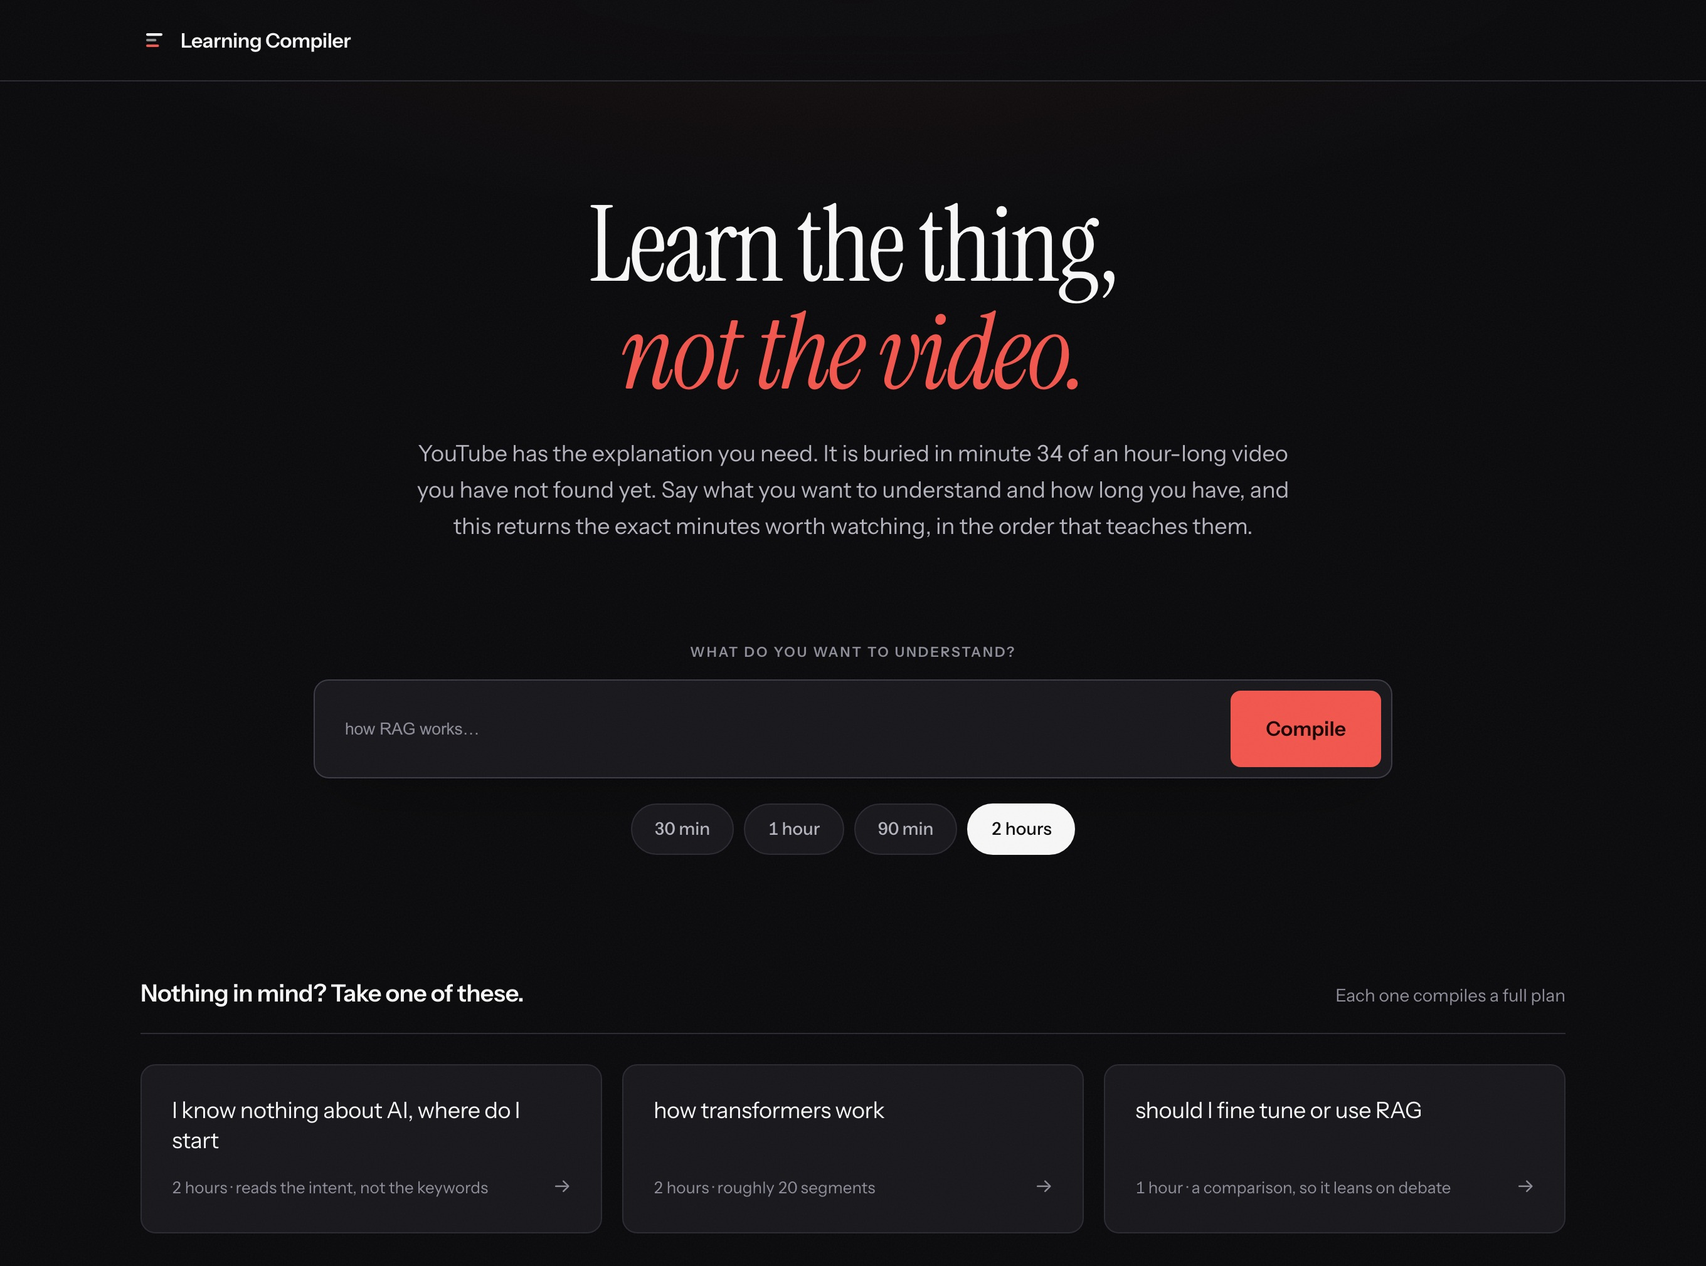
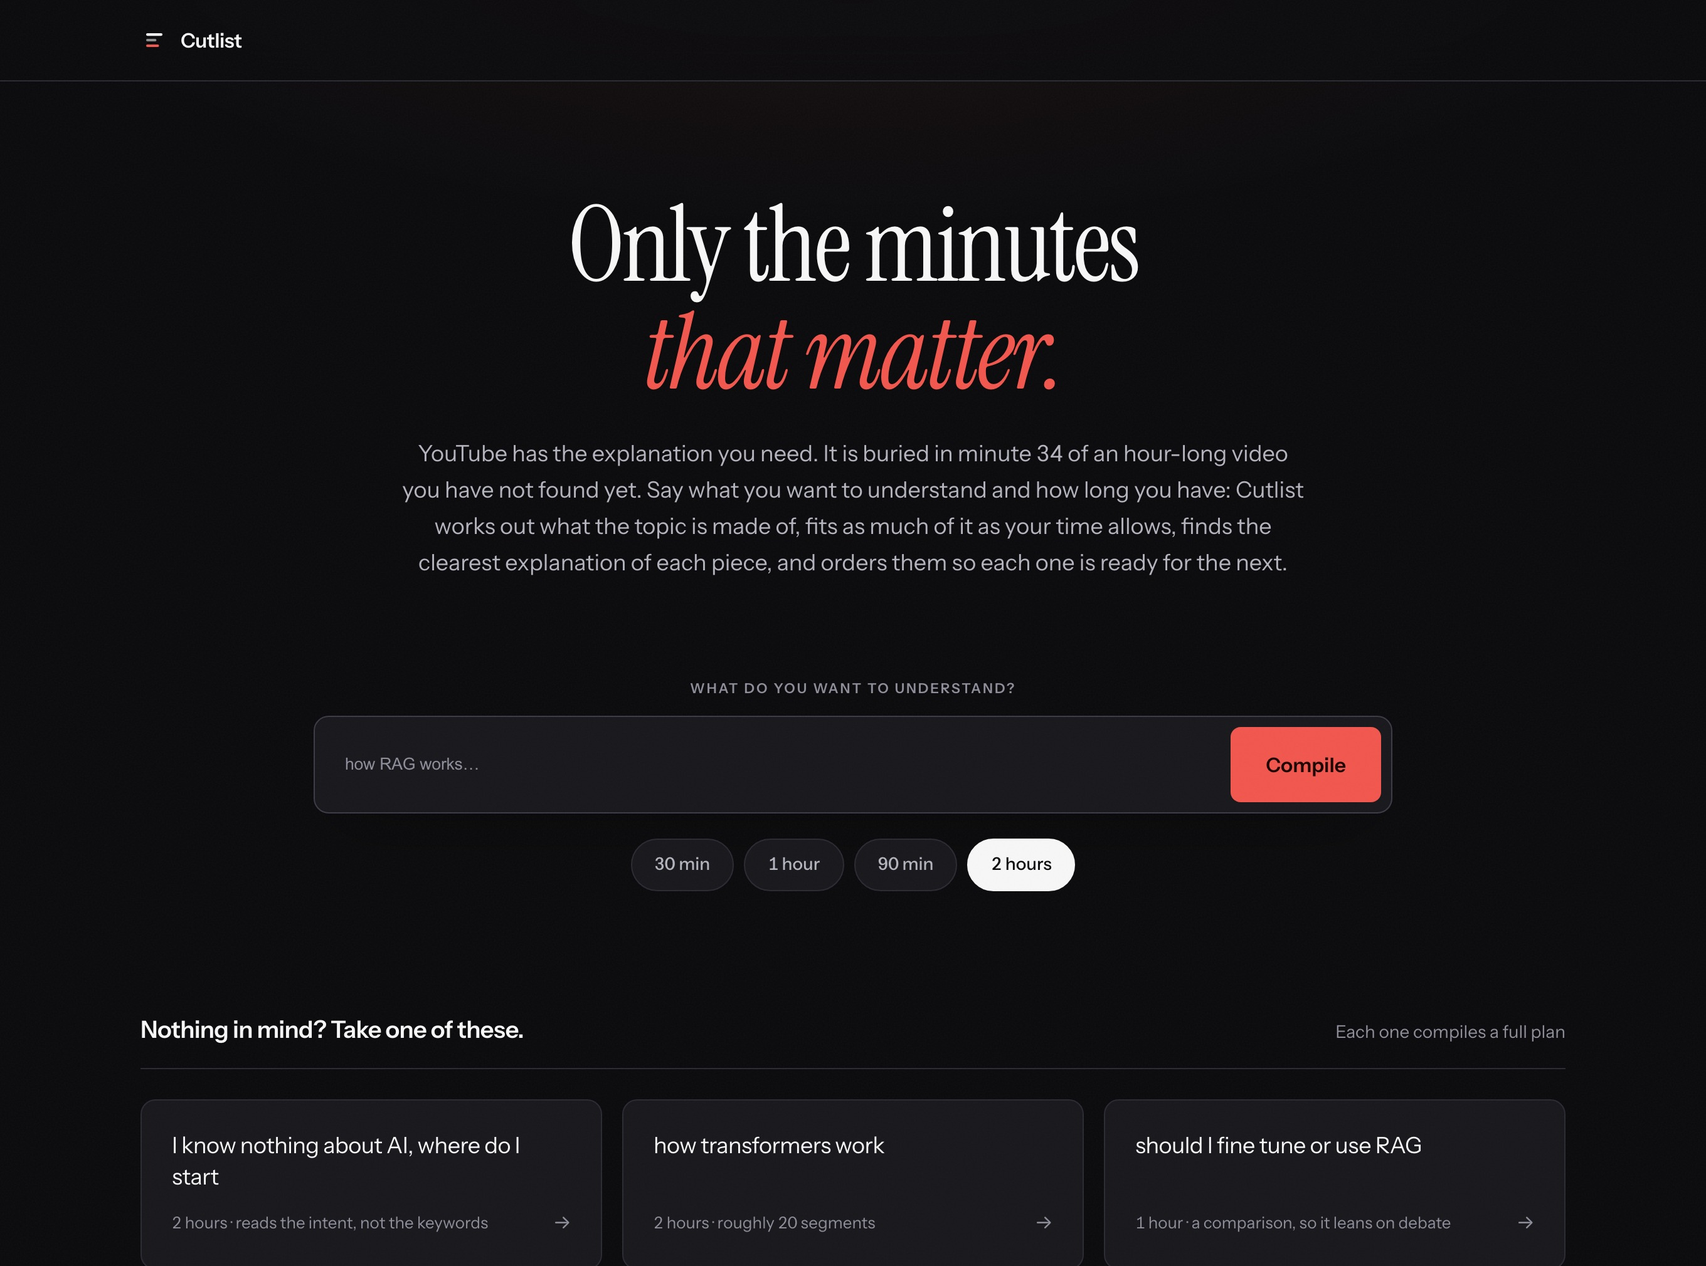
Rename to Cutlist, and lead with what the product actually does
The old name described the mechanism and the old copy undersold the work.
"Learning Compiler" put the most generic word in the category next to a
builder's metaphor, and every explanation on the page stopped at "we pick
good segments," which is a retrieval story.

The real one is that a topic is decomposed into the ideas it depends on,
those are fitted to the time available, each is sourced, and the result is
sequenced. Retrieval is just how the skeleton gets filled in. That claim is
something the pipeline already did at stage one and the page never said.

So the explainer now shows it. After the question is typed, the topic comes
apart into concept chips, one of them struck through because nothing good
enough is indexed for it, and only then do the plan rows resolve underneath.
Anyone watching for four seconds sees the breakdown happen before a single
video is chosen, which is the order that makes this a plan rather than a
search result. A fourth step beside it says the same thing in words.

On the result page, "Things to cover" becomes "What this topic is made of",
and reads as the plan's skeleton rather than a coverage checklist.

Tagline is "Only the minutes that matter", which survives being set at 60px
and being read cold in a repo listing, and says what the product returns
rather than what it saves you.

Live at cutlist-learn.vercel.app. OG card and both README screenshots
regenerated, since all three carried the old wordmark.

diff --git a/public/index.html b/public/index.html
@@ -3,25 +3,25 @@
 <head>
 <meta charset="utf-8">
 <meta name="viewport" content="width=device-width, initial-scale=1">
-<title>Learning Compiler</title>
-<meta name="description" content="Say what you want to understand and how long you have. Get back the YouTube segments worth watching, in the order that teaches best, with exact timestamps.">
+<title>Cutlist</title>
+<meta name="description" content="Only the minutes that matter. Cutlist breaks a topic into what it is made of, fits it to the time you have, and sequences it into a timestamped YouTube plan.">
 <meta name="color-scheme" content="dark light">
 <meta name="theme-color" content="#0a0a0c">
 <link rel="icon" href="/favicon.svg" type="image/svg+xml">
 <link rel="apple-touch-icon" href="/favicon.svg">
 
 <meta property="og:type" content="website">
-<meta property="og:site_name" content="Learning Compiler">
-<meta property="og:title" content="Learning Compiler">
-<meta property="og:description" content="Say what you want to understand and how long you have. Get back the YouTube segments worth watching, in the order that teaches best, with exact timestamps.">
-<meta property="og:url" content="https://learning-compiler.vercel.app">
-<meta property="og:image" content="https://learning-compiler.vercel.app/og.png">
+<meta property="og:site_name" content="Cutlist">
+<meta property="og:title" content="Cutlist">
+<meta property="og:description" content="Only the minutes that matter. Cutlist breaks a topic into what it is made of, fits it to the time you have, and sequences it into a timestamped YouTube plan.">
+<meta property="og:url" content="https://cutlist-learn.vercel.app">
+<meta property="og:image" content="https://cutlist-learn.vercel.app/og.png">
 <meta property="og:image:width" content="1200">
 <meta property="og:image:height" content="630">
 <meta name="twitter:card" content="summary_large_image">
-<meta name="twitter:title" content="Learning Compiler">
-<meta name="twitter:description" content="Tell it what you want to understand and how long you have. It returns the segments worth watching, in teaching order.">
-<meta name="twitter:image" content="https://learning-compiler.vercel.app/og.png">
+<meta name="twitter:title" content="Cutlist">
+<meta name="twitter:description" content="Only the minutes that matter. A topic and a deadline in, an ordered timestamped watch plan out.">
+<meta name="twitter:image" content="https://cutlist-learn.vercel.app/og.png">
 
 <link rel="preconnect" href="https://fonts.googleapis.com">
 <link rel="preconnect" href="https://fonts.gstatic.com" crossorigin>
@@ -285,6 +285,17 @@ body.is-done .explain{display:none}
 }
 .st-chips span.picked{background:var(--ink); border-color:var(--ink); color:var(--canvas)}
 
+.st-break{margin-top:calc(var(--u)*2.5); padding-top:calc(var(--u)*2); border-top:1px solid var(--line)}
+.st-breakhead{font-size:11px; font-weight:600; letter-spacing:.13em; text-transform:uppercase; color:var(--ink-3)}
+.st-concepts{margin:calc(var(--u)*1.5) 0 0; padding:0; list-style:none; display:flex; flex-wrap:wrap; gap:calc(var(--u))}
+.st-concepts li{
+  font-size:12.5px; padding:5px 11px; border:1px solid var(--line); border-radius:999px;
+  color:var(--ink-2); background:var(--raise); opacity:0; transform:translateY(6px);
+}
+.stage-broke .st-concepts li{animation:rise .45s var(--ease) forwards; animation-delay:calc(var(--i)*120ms)}
+.stage-settled .st-concepts li{opacity:1; transform:none; animation:none}
+.st-concepts li.no{border-style:dashed; color:var(--ink-3); text-decoration:line-through; text-decoration-color:var(--accent)}
+
 .st-out{margin-top:calc(var(--u)*3); padding-top:calc(var(--u)*2.5); border-top:1px solid var(--line)}
 .st-outhead{
   display:flex; align-items:baseline; justify-content:space-between; gap:calc(var(--u)*2);
@@ -300,7 +311,7 @@ body.is-done .explain{display:none}
 .st-rows li.more{
   grid-template-columns:1fr; font-size:12.5px; color:var(--ink-3); padding-top:calc(var(--u)*.5);
 }
-.stage-go .st-rows li{animation:rise .55s var(--ease) forwards; animation-delay:calc(var(--i)*130ms + 1900ms)}
+.stage-go .st-rows li{animation:rise .55s var(--ease) forwards; animation-delay:calc(var(--i)*130ms + 700ms)}
 /* Pausing part-way through must not leave the rows mid-animation at zero
    opacity, so the settled state is painted directly rather than waited for. */
 .stage-settled .st-rows li{opacity:1; transform:none; animation:none}
@@ -323,7 +334,8 @@ body.is-done .explain{display:none}
 
 @media (prefers-reduced-motion:reduce){
   .st-caret{animation:none}
-  .stage-go .st-rows li, .st-rows li{opacity:1; transform:none; animation:none}
+  .stage-go .st-rows li, .st-rows li,
+  .stage-broke .st-concepts li, .st-concepts li{opacity:1; transform:none; animation:none}
   .ex-steps li{opacity:1}
 }
 
@@ -699,7 +711,7 @@ body.is-demo .demo{display:block}
         <rect x="6.5" y="14.5" width="12" height="3" rx="1.5" fill="#F7F7F8" opacity=".55"/>
         <rect x="6.5" y="21" width="15" height="3" rx="1.5" fill="#F2564D"/>
       </svg>
-      <b translate="no">Learning Compiler</b>
+      <b translate="no">Cutlist</b>
     </a>
     <button class="back" id="back" type="button">
       <svg viewBox="0 0 16 16" aria-hidden="true"><path d="M9.5 3.5 5 8l4.5 4.5" fill="none" stroke="currentColor" stroke-width="1.6" stroke-linecap="round" stroke-linejoin="round"/></svg>
@@ -711,12 +723,13 @@ body.is-demo .demo{display:block}
 <div class="shell">
 
   <section class="hero">
-    <h1 id="headline">Learn the thing, <em>not the video.</em></h1>
+    <h1 id="headline">Only the minutes <em>that matter.</em></h1>
     <p class="lede">
       YouTube has the explanation you need. It is buried in minute 34 of an
       hour-long video you have not found yet. Say what you want to understand
-      and how long you have, and this returns the exact minutes worth watching,
-      in the order that teaches them.
+      and how long you have: Cutlist works out what the topic is made of, fits
+      as much of it as your time allows, finds the clearest explanation of each
+      piece, and orders them so each one is ready for the next.
     </p>
   </section>
 
@@ -777,11 +790,13 @@ body.is-demo .demo{display:block}
       <div class="ex-head">
         <h2 class="serif">You bring a question<br>and a deadline.</h2>
         <p>
-          A search box gives you ten hour-long videos and wishes you luck. The
-          unit of YouTube is the video; the unit of learning is the idea, and
-          they do not line up. So you pay a search-and-skip tax on every video,
-          and pay it again on the next one. Two free hours can lose thirty
-          minutes before you learn anything.
+          A search box gives you ten hour-long videos and wishes you luck. But
+          the harder problem comes first: knowing what the topic is even made
+          of, and how much of it you can realistically learn before the time
+          runs out. Cutlist answers that first and then fills it in. The unit of
+          YouTube is the video, the unit of learning is the idea, and they do
+          not line up, so you pay a search-and-skip tax on every video and pay
+          it again on the next one.
         </p>
       </div>
 
@@ -799,6 +814,11 @@ body.is-demo .demo{display:block}
           </li>
           <li data-step="3">
             <b>03</b>
+            <h3>The topic comes apart</h3>
+            <p>Cutlist works out the ideas the topic is actually made of, then how many of them fit the time you gave it. You see that skeleton before you see a single video.</p>
+          </li>
+          <li data-step="4">
+            <b>04</b>
             <h3>Get a plan, not a results page</h3>
             <p>Every entry opens the creator's own video at the second it starts being useful. Nothing repeats, and nothing is filler.</p>
           </li>
@@ -817,6 +837,17 @@ body.is-demo .demo{display:block}
             <div class="st-chips">
               <span>30 min</span><span>1 hour</span><span>90 min</span><span data-pick>2 hours</span>
             </div>
+          </div>
+
+          <div class="st-break" aria-hidden="true">
+            <span class="st-breakhead">What this topic is made of</span>
+            <ol class="st-concepts">
+              <li style="--i:0">The limits of a standalone LLM</li>
+              <li style="--i:1">What an embedding is</li>
+              <li style="--i:2">Vector search and retrieval</li>
+              <li style="--i:3">Chunking and context</li>
+              <li class="no" style="--i:4">Reranking</li>
+            </ol>
           </div>
 
           <div class="st-out" aria-hidden="true">
@@ -921,7 +952,7 @@ body.is-demo .demo{display:block}
         <span class="lbl">What this does with your data</span>
         <p>No accounts, no cookies, no analytics. Your question is compiled on the server and held in memory so asking it again costs nothing; that cache dies with the server process. Your time budget is kept in your own browser. <strong>Shared links carry the whole plan inside the link</strong>, so sharing one stores nothing anywhere.</p>
         <p>Video thumbnails are loaded from YouTube's own servers, which means YouTube can see that your browser requested them. That is the one third party this page talks to.</p>
-        <p>A personal project on a capped API key, not a service. <a href="https://github.com/bisati/learning-compiler">Source, decisions and costs on GitHub</a>.</p>
+        <p>A personal project on a capped API key, not a service. <a href="https://github.com/bisati/cutlist">Source, decisions and costs on GitHub</a>.</p>
       </div>
     </div>
   </div>
@@ -1052,7 +1083,7 @@ const clearStages = () => { for (const r of $('#stages').children) r.classList.r
   const settle = () => {
     type.textContent = QUESTION;
     pick.classList.add('picked');
-    stage.classList.add('stage-go', 'stage-settled');
+    stage.classList.add('stage-broke', 'stage-go', 'stage-settled');
     $('#stmin').textContent = '119'; $('#stseg').textContent = '26'; $('#stcre').textContent = '25';
     steps.forEach((s) => s.classList.add('on'));
   };
@@ -1061,7 +1092,7 @@ const clearStages = () => { for (const r of $('#stages').children) r.classList.r
     clear();
     type.textContent = '';
     pick.classList.remove('picked');
-    stage.classList.remove('stage-go', 'stage-settled');
+    stage.classList.remove('stage-broke', 'stage-go', 'stage-settled');
     $('#stmin').textContent = '0'; $('#stseg').textContent = '0'; $('#stcre').textContent = '0';
     steps.forEach((s) => s.classList.remove('on'));
   };
@@ -1078,13 +1109,15 @@ const clearStages = () => { for (const r of $('#stages').children) r.classList.r
       type.textContent = QUESTION.slice(0, ++i);
       if (i < QUESTION.length) return after(55, typeOn);
       after(380, () => { lite(1); pick.classList.add('picked'); });
-      after(1500, () => {
-        lite(2);
+      // The topic comes apart before anything is chosen. That order is the product.
+      after(1100, () => { lite(2); stage.classList.add('stage-broke'); });
+      after(2300, () => {
+        lite(3);
         stage.classList.add('stage-go');
         countUp($('#stmin'), 119); countUp($('#stseg'), 26); countUp($('#stcre'), 25);
       });
-      after(3600, () => steps.forEach((s) => s.classList.add('on')));
-      after(3600 + GAP, () => { running = false; run(); });
+      after(4200, () => steps.forEach((s) => s.classList.add('on')));
+      after(4200 + GAP, () => { running = false; run(); });
     };
     after(260, typeOn);
   }
@@ -1228,7 +1261,7 @@ function render(d, opts = {}) {
 
   const cover = el('div', 'print-cover');
   const pt = el('div', 'pc-top');
-  pt.append(el('span', null, 'Learning Compiler'));
+  pt.append(el('span', null, 'Cutlist'));
   pt.append(el('span', null, new Intl.DateTimeFormat(undefined, { day: 'numeric', month: 'short', year: 'numeric' }).format(new Date())));
   cover.append(pt);
   cover.append(el('h1', null, d.topic));
@@ -1281,12 +1314,12 @@ function render(d, opts = {}) {
   const covered = d.concepts.filter((c) => c.covered).length;
   const cov = el('section', 'sec');
   const ch = el('div', 'sec-head');
-  ch.append(el('h2', null, 'Things to cover'));
-  ch.append(el('span', 'side', `${covered} of ${d.concepts.length} found in the index`));
+  ch.append(el('h2', null, 'What this topic is made of'));
+  ch.append(el('span', 'side', `${d.concepts.length} ideas, ${covered} of them covered below`));
   cov.append(ch);
   cov.append(el('p', 'cover-note', d.missing.length
-    ? `These are the things this topic needs before it makes sense. The struck-through ones are missing because nothing good enough is indexed, not because they do not matter.`
-    : `These are the things this topic needs before it makes sense, and the plan covers all ${d.concepts.length} of them.`));
+    ? `Your question was broken into the ideas it actually depends on, and the plan below is built to cover them in order. The struck-through ones are missing because nothing good enough is indexed, not because they do not matter.`
+    : `Your question was broken into the ideas it actually depends on, and the plan below covers all ${d.concepts.length} of them, in an order where each one is ready for the next.`));
   const ul = el('ul', 'concepts');
   for (const c of d.concepts) {
     const li = el('li', c.covered ? '' : 'no');
@@ -1389,7 +1422,7 @@ function render(d, opts = {}) {
   out.append(wrap);
 
   $('#printfoot').textContent =
-    'Compiled by Learning Compiler, learning-compiler.vercel.app. Every timestamp links to the creator’s own video on YouTube. Nothing here is hosted or re-uploaded.';
+    'Compiled by Cutlist, cutlist-learn.vercel.app. Every timestamp links to the creator’s own video on YouTube. Nothing here is hosted or re-uploaded.';
 
   showPlan();
 }
@@ -1398,7 +1431,7 @@ function render(d, opts = {}) {
 function downloadPdf() {
   if (!current) return;
   const was = document.title;
-  document.title = `Learning Compiler - ${current.topic} (${current.totalMin} min)`.replace(/[\\/:*?"<>|]/g, '-');
+  document.title = `Cutlist - ${current.topic} (${current.totalMin} min)`.replace(/[\\/:*?"<>|]/g, '-');
   const restore = () => { document.title = was; removeEventListener('afterprint', restore); };
   addEventListener('afterprint', restore);
   setTimeout(() => { print(); setTimeout(restore, 1000); }, 60);

diff --git a/public/404.html b/public/404.html
@@ -4,7 +4,7 @@
 <meta charset="utf-8">
 <meta name="viewport" content="width=device-width, initial-scale=1">
 <title>Nothing at this address</title>
-<meta name="description" content="That page does not exist on Learning Compiler.">
+<meta name="description" content="That page does not exist on Cutlist.">
 <meta name="robots" content="noindex">
 <meta name="color-scheme" content="dark light">
 <meta name="theme-color" content="#0a0a0c">
@@ -75,7 +75,7 @@ p{margin:calc(var(--u)*3) 0 0; max-width:56ch; color:var(--ink-2); line-height:1
 <header class="masthead">
   <div class="shell">
     <span class="sig" aria-hidden="true"></span>
-    <b translate="no">Learning Compiler</b>
+    <b translate="no">Cutlist</b>
   </div>
 </header>
 
@@ -90,7 +90,7 @@ p{margin:calc(var(--u)*3) 0 0; max-width:56ch; color:var(--ink-2); line-height:1
     </p>
     <div class="row">
       <a class="btn" href="/">Compile a plan</a>
-      <a class="btn ghost" href="https://github.com/bisati/learning-compiler">Read the source</a>
+      <a class="btn ghost" href="https://github.com/bisati/cutlist">Read the source</a>
     </div>
   </div>
 </main>

diff --git a/tools/og-card.html b/tools/og-card.html
@@ -71,14 +71,14 @@
       <rect x="6.5" y="14.5" width="12" height="3" rx="1.5" fill="#F7F7F8" opacity=".55"/>
       <rect x="6.5" y="21" width="15" height="3" rx="1.5" fill="#F2564D"/>
     </svg>
-    <b>Learning Compiler</b>
-    <span class="rt">learning-compiler.vercel.app</span>
+    <b>Cutlist</b>
+    <span class="rt">cutlist-learn.vercel.app</span>
   </div>
 
   <div class="mid">
     <div>
-      <h1>Learn the thing, <em>not the video.</em></h1>
-      <p class="lede">Tell it what you want to understand and how long you have. It returns the exact segments worth watching, in teaching order.</p>
+      <h1>Only the minutes <em>that matter.</em></h1>
+      <p class="lede">A topic and a deadline in. Cutlist works out what the topic is made of, fits it to your time, and sequences it into a timestamped plan.</p>
     </div>
     <div class="rows">
       <div class="row"><span class="n">01</span><span class="t intro"><span class="gl"></span>The limits of standalone LLMs</span><span class="l">5 min</span></div>

diff --git a/README.md b/README.md
@@ -1,19 +1,22 @@
-# Learning Compiler
+# Cutlist
 
-[![Live](https://img.shields.io/badge/live-learning--compiler.vercel.app-f2564d?style=flat-square)](https://learning-compiler.vercel.app)
+[![Live](https://img.shields.io/badge/live-cutlist--learn.vercel.app-f2564d?style=flat-square)](https://cutlist-learn.vercel.app)
 [![License](https://img.shields.io/badge/license-MIT-3f3f46?style=flat-square)](LICENSE)
 [![Node](https://img.shields.io/badge/node-%E2%89%A5%2022-3f3f46?style=flat-square)](package.json)
 
-### Learn the thing, not the video.
+### Only the minutes that matter.
 
 YouTube already has the explanation you need. It is buried in minute 34 of an
 hour-long video you have not found yet.
 
-Learning Compiler takes a topic and a time budget and returns the exact minutes
-worth watching, in the order that teaches them, each one timestamped so you land
-on the part that answers your question.
+Cutlist takes a topic and a time budget and works out what the topic is actually
+made of: the ideas that have to land before it makes sense. Then it decides how
+many of them fit your time, finds the clearest explanation of each across
+YouTube, and sequences them so each one is ready for the next.
 
-**[Try it, no sign-up needed](https://learning-compiler.vercel.app)** &nbsp;·&nbsp;
+What comes back is a roadmap with timestamps, not a list of videos.
+
+**[Try it, no sign-up needed](https://cutlist-learn.vercel.app)** &nbsp;·&nbsp;
 [How it works](#how-it-works) &nbsp;·&nbsp;
 [Measured](#measured) &nbsp;·&nbsp;
 [Run it locally](#run-it-locally)
@@ -24,9 +27,11 @@ on the part that answers your question.
 
 ## What you get
 
-Ask for *how RAG works* in two hours and you get 26 segments from 25 creators
-filling 119 of your 120 minutes, ordered so each one makes sense by the time you
-reach it.
+Ask for *how RAG works* in two hours. The topic comes apart into the nine ideas
+it depends on, and you get 26 segments from 25 creators filling 119 of your 120
+minutes, ordered so each one makes sense by the time you reach it. The page
+shows the breakdown above the plan, so you can see the shape of what you are
+about to learn before you start.
 
 ![A compiled plan: 119 minutes, 26 segments, 25 creators, the concepts it covers with one struck through, then the timetable](docs/img/plan.jpg)
 
@@ -39,6 +44,12 @@ seconds. Nothing here is rehosted, reuploaded or embedded.
 ---
 
 ## Why this is not a search box
+
+**You get a syllabus, not results.** A search box takes your words and returns
+things containing them. Cutlist works out what the topic is made of first: the
+nine or ten ideas that have to land before it makes sense, and the order they
+have to land in. Everything below follows from having that skeleton before
+anything is chosen, and you see it on the page above the plan itself.
 
 **You watch minutes, not videos.** A search result is a 52-minute video with the
 right words in the title. A plan is the four minutes inside it that answer your
